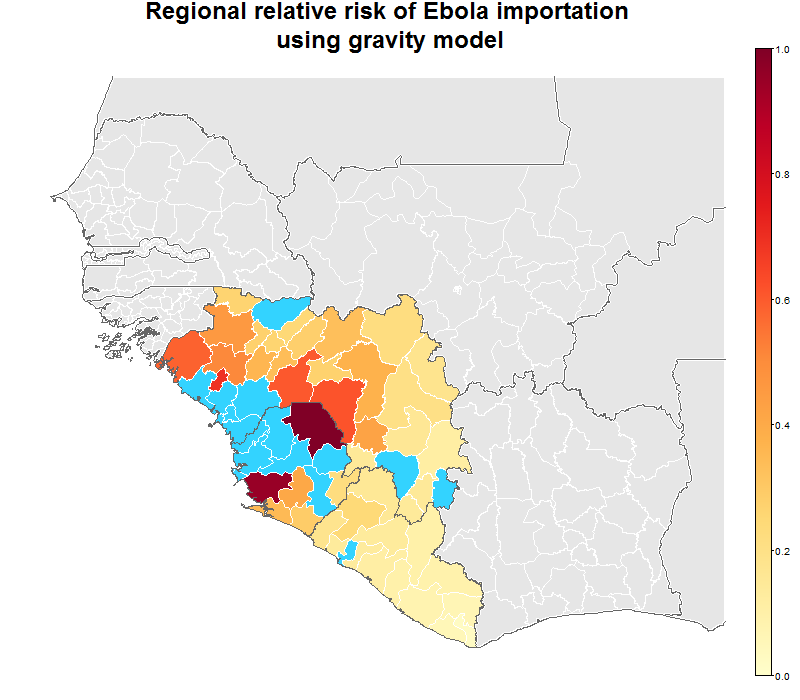
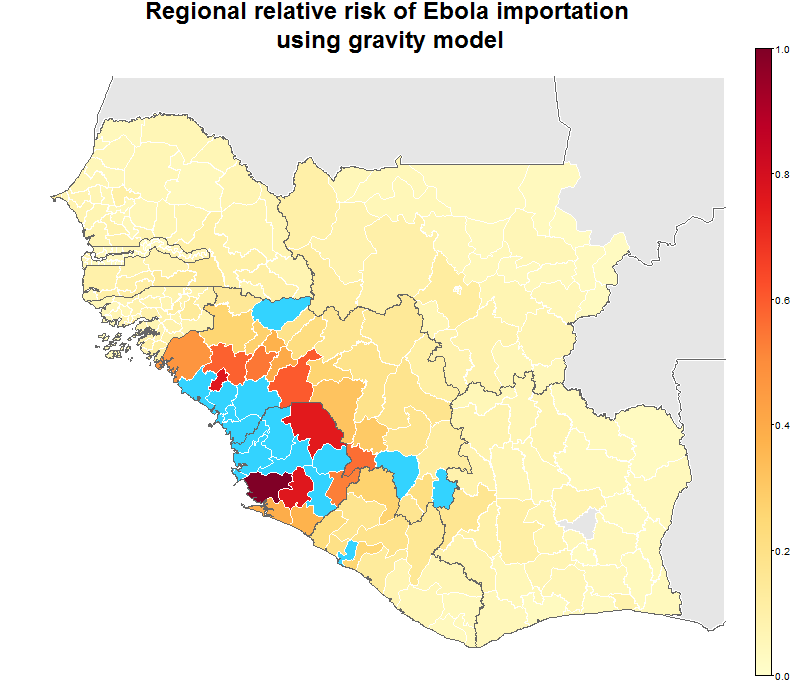
Updated local risk maps based on corrected population data

Changed region(s): [[0.0625, 0.15, 0.875, 0.93], [0.4375, 0.78, 0.4688, 0.81]]

diff --git a/local-risk.md b/local-risk.md
@@ -13,6 +13,8 @@ The aim of this analysis is to produce a regional, district level metric of the 
 
 ### Latest data as of 23 March 2015
 
+#### Note: The Bélier and Moronou regions of Côte d'Ivoire are currently being predicted incorrectly, hence the gray region in that area. This is being corrected.
+
 <a href="images/regional_prediction_radsel_france_large.png"><img src="images/regional_prediction_radsel_france.png" /></a>
 Predicted relative risk of importation of EVD cases from districts with reported cases in the last <b>21</b> days using the radiation with selection model. Dark red indicates higher risk of importation. Note that this does not represent a prediction of the number of new cases being reported in the future. Districts with reported cases are coloured blue to prevent skew.
 
